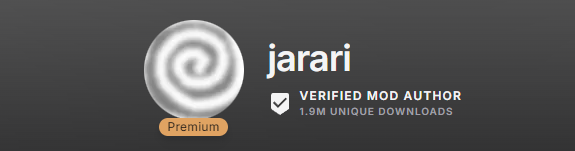
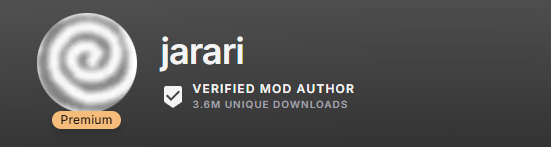
Update profile

Changed region(s): [[0.0617, 0.0816, 0.8022, 0.9252]]

diff --git a/pages/about.md b/pages/about.md
@@ -5,21 +5,10 @@ permalink: /about/
 weight: 3
 ---
 
-# **About Me**
-
-안녕하세요, 저는 **{{ site.author.name }}** 입니다 :wave:.<br>
-저는 **미국 오리건 주립대학교**에서 **Computer Science**를 전공했으며, 세부 전공으로는 인공지능을 택했었습니다.<br>
-**GPA 3.52/4.0**이라는 비교적 높은 학점으로 2023년 9월 졸업하여 한국에 귀국한 지 1년.<br>
-어릴 적부터 꿈이었던 **게임 프로그래밍에 다시 도전**해보려 합니다.<br>
-
-# **My Passion**
-
-비록 전공은 인공지능이었지만, 게임에 대한 열정은 쉬지 않았습니다. **플레이어로서**, 그리고 동시에 **개발자**로서.<br>
-다양한 장르의 게임을 직접 플레이 해보며 실제 게임에 적용된 **구현 방법과 구조, 그리고 개선점**들을 끊임없이 고민했으며<br>
-어떻게 하면 좀 더 재밌는 게임이 될 수 있을까, **비공식적인 모드**들을 통해 기능들을 추가해보기도 하였습니다.<br>
-그 결과, 저는 **Nexus Mods** 라는 사이트에서 2025년 2월 기준 **누적 다운로드수 200만**,<br>
-**매달 약 10만명의 새로운 유저**들이 제 모드를 다운받는 Verified Mod Author가 되었습니다.<br>
-이제 이 경험을 바탕으로 큰 프로젝트에 참여하여 제 꿈을 펼쳐나가고 싶습니다.
+## About me
+- 이정민 (Jungmin Lee)
+- 넥서스 모드 누적 다운로드 수 360만
+- Unity C#, DOTS, Reverse Engineering
 
 
 <div class="row">
